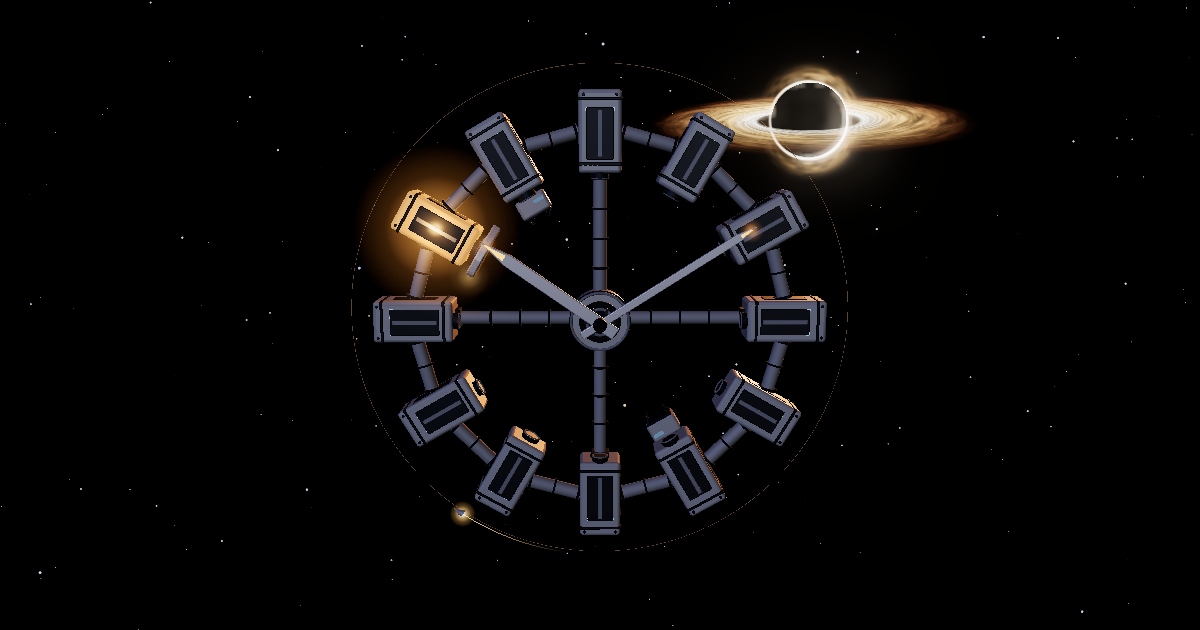
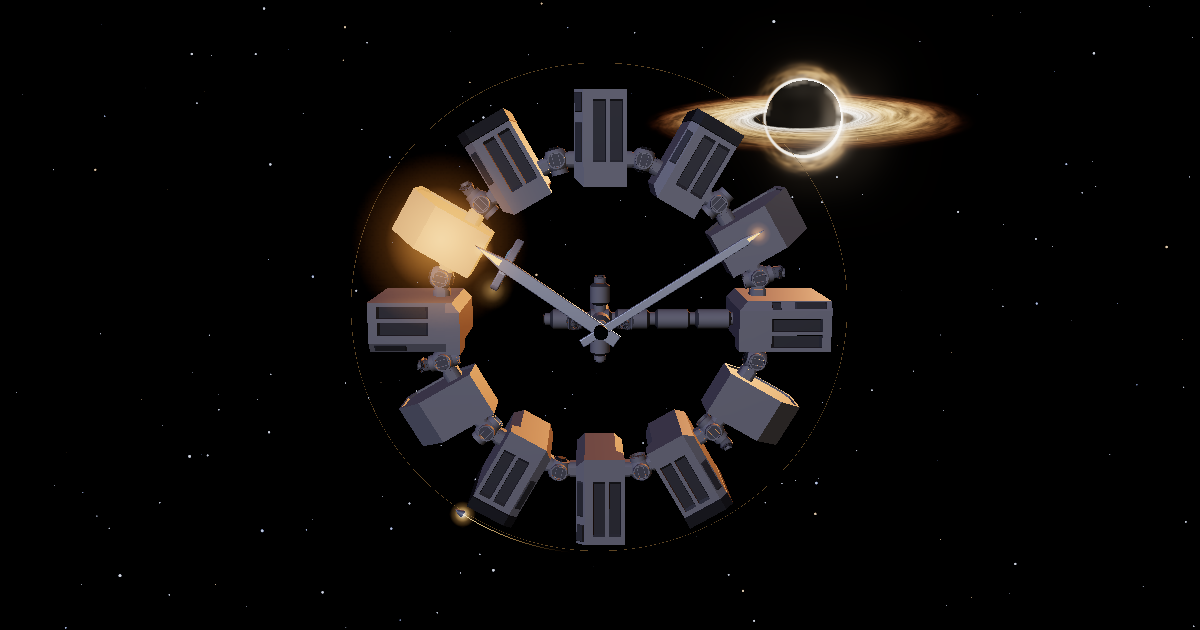
Capture the preview image from the model
The page's service worker intercepted the stubbed Draco decoder requests
during capture, so the previous preview showed the procedural ship. The
capture contexts now block service workers; preview regenerated.

Claude-Session: https://claude.ai/code/session_01D2QPwmNgt3nTXLM7e2wwtz

Changed region(s): [[0.2775, 0.0905, 0.8017, 0.8746]]

diff --git a/tools/capture.js b/tools/capture.js
@@ -6,8 +6,10 @@
  *   npx playwright install chromium
  *   node tools/capture.js
  *
- * Set THREE_LOCAL=/path/to/node_modules/three to serve Three.js from disk
- * instead of the CDN (handy on a machine without internet access).
+ * Set THREE_LOCAL=/path/to/node_modules/three to serve Three.js (and the Draco
+ * decoder) from disk instead of the CDN (handy on a machine without internet
+ * access). Service workers are blocked in the capture contexts so the page's
+ * worker cannot intercept those stubbed requests.
  */
 const { chromium } = require('playwright');
 const http = require('http');
@@ -50,7 +52,7 @@ async function routeThree(page) {
 
   // ---- Open Graph: the 3D ship, 1200x630 ----
   {
-    const ctx = await browser.newContext({ viewport: { width: 1200, height: 630 }, deviceScaleFactor: 1 });
+    const ctx = await browser.newContext({ serviceWorkers: 'block', viewport: { width: 1200, height: 630 }, deviceScaleFactor: 1 });
     const page = await ctx.newPage();
     await routeThree(page);
     await page.clock.setFixedTime(FIXED_TIME);
@@ -71,7 +73,7 @@ async function routeThree(page) {
 
   // ---- Icons: the ring on space, square, tightly framed ----
   async function icon(size, fit, file) {
-    const ctx = await browser.newContext({ viewport: { width: size, height: size }, deviceScaleFactor: 1 });
+    const ctx = await browser.newContext({ serviceWorkers: 'block', viewport: { width: size, height: size }, deviceScaleFactor: 1 });
     const page = await ctx.newPage();
     await routeThree(page);
     await page.clock.setFixedTime(FIXED_TIME);
